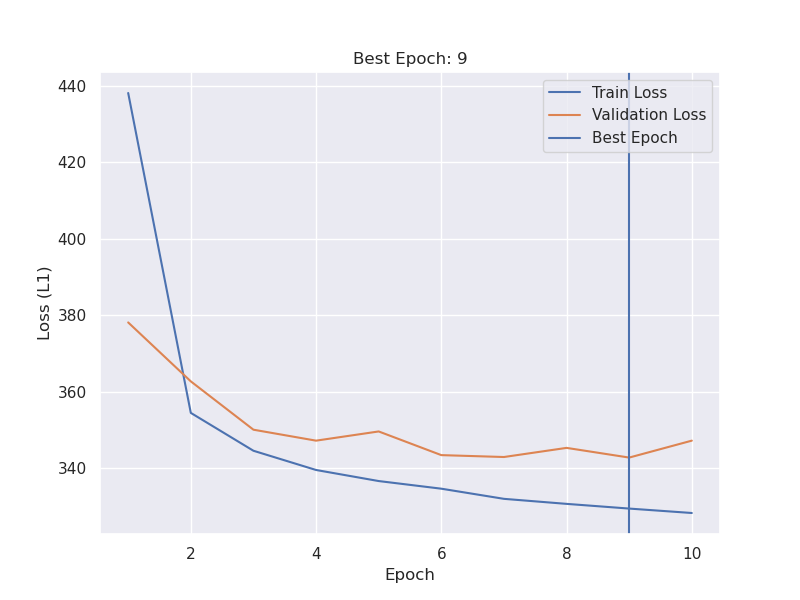
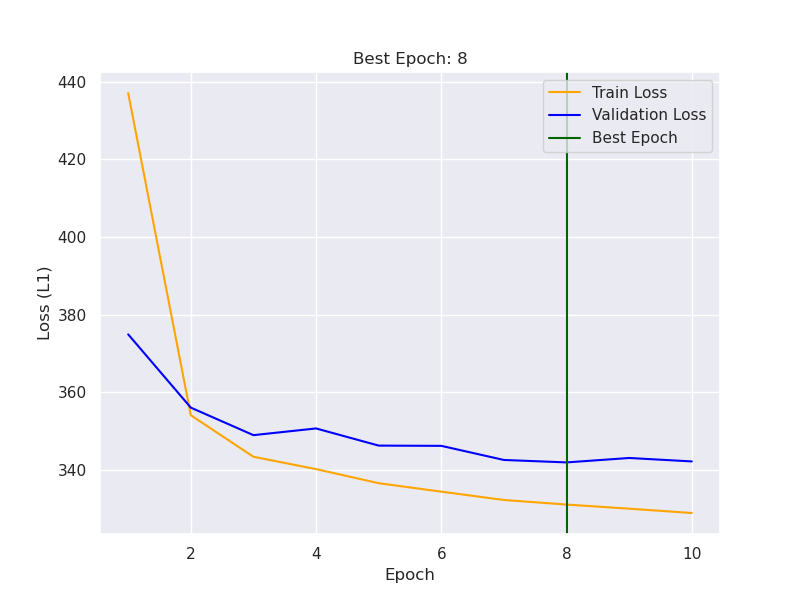
update documentation

diff --git a/src/dnn/dnn/model/core.py b/src/dnn/dnn/model/core.py
@@ -91,10 +91,10 @@ class Model():
     def _plot_loss_curve(self):
         fig = plt.figure(figsize=(8, 6))
         epochs = [i+1 for i in range(self.epochs)]
-        plt.plot(epochs, self.train_loss, label="Train Loss", color="blue")
-        plt.plot(epochs, self.val_loss, label="Validation Loss", color="orange")
+        plt.plot(epochs, self.train_loss, label="Train Loss", color="orange")
+        plt.plot(epochs, self.val_loss, label="Validation Loss", color="blue")
         best_epoch = np.argmin(self.val_loss) + 1
-        plt.axvline(x=best_epoch, label="Best Epoch", color="red")
+        plt.axvline(x=best_epoch, label="Best Epoch", color="darkgreen")
         plt.xlabel("Epoch")
         plt.ylabel("Loss (L1)")
         plt.title(f"Best Epoch: {best_epoch}")

diff --git a/src/dnn/dnn/api.py b/src/dnn/dnn/api.py
@@ -21,7 +21,7 @@ def train(config: DNNConfig = DNNConfig) -> None:
     # Preprocess and build features
     features = Features(config)
     df_features = features.build()
-    # Train model
+    # Train model and generate submission file
     model = Model(config)
     model.build()
 

diff --git a/README.md b/README.md
@@ -2,10 +2,9 @@
 
 Comptetition link - https://www.kaggle.com/competitions/coms4771-spring-2022-regression-competition/leaderboard
 
-I'm **vt2353** on the leaderboard. 
-
-Rank 1/167 
+User Name: **vt2353**
+Rank 1/167
 
 <p align="center">
-  <img src="/leaderboard/standings.png" width="750" title="Standings">
+  <img src="/reports/standings.png" width="750" height="200" title="Standings">
 </p>
